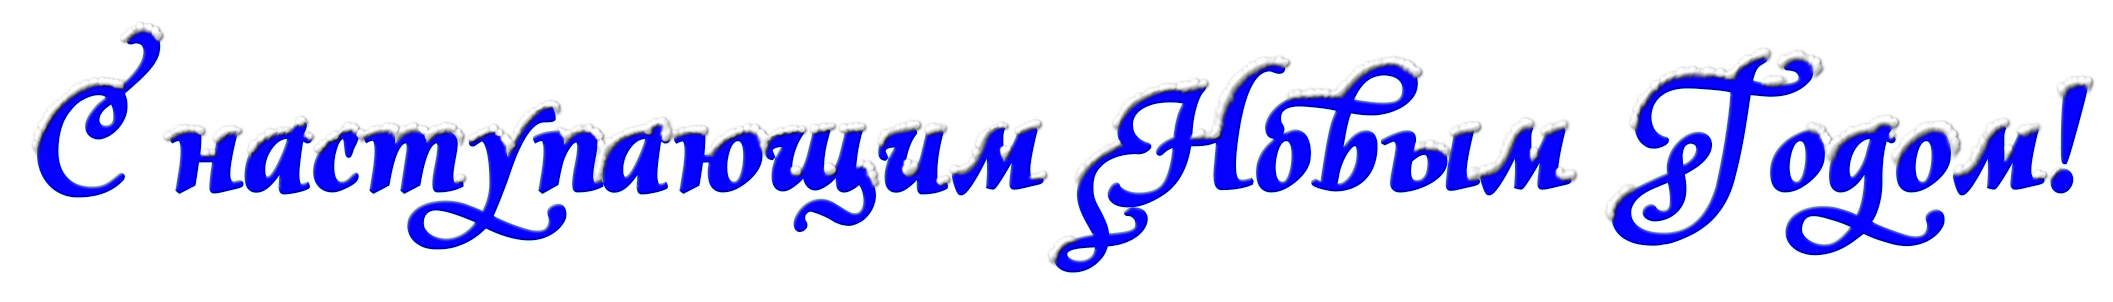
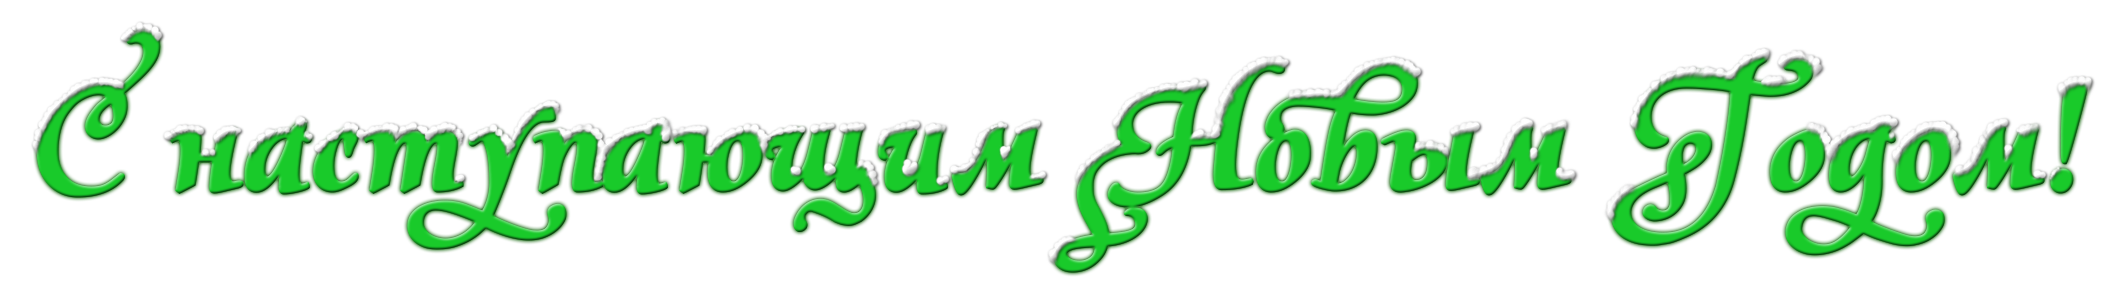
Готовлю финальный вариант, оставил один вариант css, сделал чередование белой и зеленой главной надписи.

Changed region(s): [[0.0, 0.0894, 0.9995, 0.9238]]

diff --git a/script.js b/script.js
@@ -1,33 +1,6 @@
 var strBeforeClock = document.getElementById('str_before_clock');
 var clock = document.getElementById('clock');
-var addStyle = document.getElementById('addStyle');
 var mainL = document.getElementById('mainLettering');
-var styles = [
-              5,//0
-              5,//1
-              5,//2
-              5,//3
-              5,//4
-              4,//5
-              4,//6
-              3,//7
-              2,//8
-              1,//9
-              1,//10
-              0,//11
-              0,//12
-              0,//13
-              1,//14
-              1,//15
-              2,//16
-              3,//17
-              3,//18
-              4,//19
-              4,//20
-              5,//21
-              5,//22
-              5]//23
-
 function hexoClock() {
 	var ny = new Date(2019,0,1);
     var now = new Date();
@@ -80,14 +53,9 @@ function hexoClock() {
 
     strBeforeClock.textContent = clockStringUp;
     clock.textContent = clockStringDown;
+    
 
-// реальная работа
-//    addStyle.href = "css/addStyle" + styles[now.getHours()] + ".css";
-//    mainL.src = "img/congratulation_inscription" + styles[now.getHours()] + ".png"
-
-// отладка
-    addStyle.href = "css/addStyle" + now.getSeconds()%6 + ".css";
-    mainL.src = "img/congratulation_inscription" + now.getSeconds()%6 + ".png"
+    mainL.src = "img/congratulation_inscription" + now.getSeconds()%2 + ".png"
 }
 
 hexoClock();

diff --git a/index.html b/index.html
@@ -11,7 +11,7 @@
 <body>
 	<div id="top-decoration" class="border"></div>
 	<div id="content">
-		<img id="mainLettering" src="img/congratulation_inscription5.png" width = 900px> 
+		<img id="mainLettering" src="img/congratulation_inscription2.png" width = 900px> 
 		<p id="time" class="with-shadow">
 			<span id="str_before_clock"></span>
 			<span id="clock"></span>
